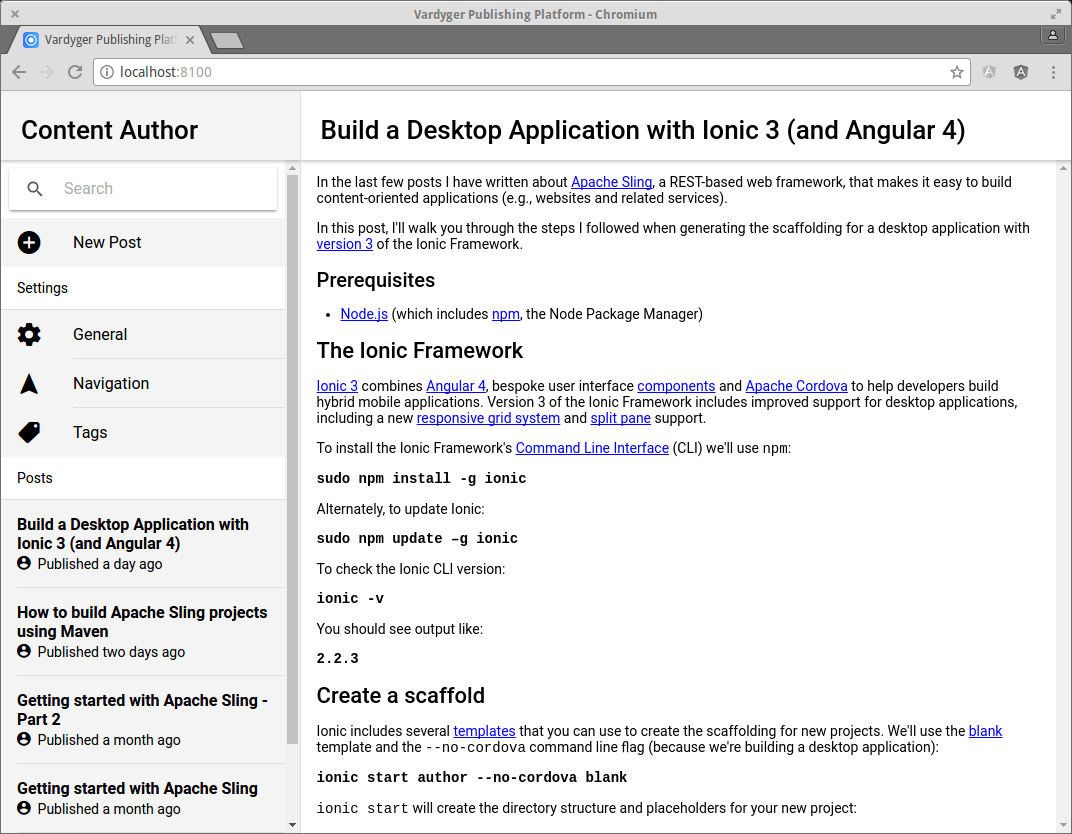
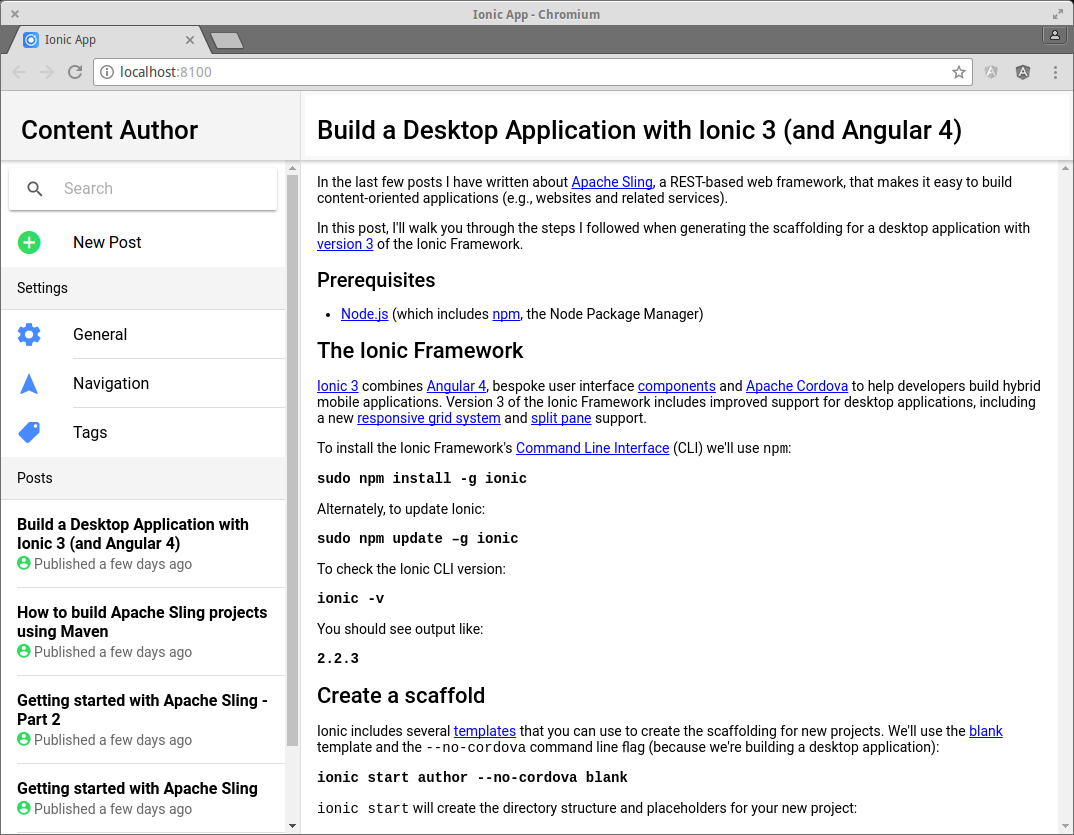
Updated the readme.md file

diff --git a/author/src/app/app.html b/author/src/app/app.html
@@ -44,7 +44,7 @@
            <span>
              <ion-icon name="contact" [ngStyle]="{'color': '#32db64'}"></ion-icon>
            </span>
-              <span color="light" class="padding-top">Published a day ago</span>
+              <span color="light" class="padding-top">Published a few days ago</span>
             </p>
           </div>
         </button>

diff --git a/author/src/pages/preview/preview.scss b/author/src/pages/preview/preview.scss
@@ -1,5 +1,10 @@
 page-preview {
 
+  ion-header > ion-navbar > div.toolbar-content.toolbar-content-md {
+    padding-left: 6px;
+    background-color: #fff;
+  }
+
   h1, h2, h3, h4 {
     padding-left: 16px;
     padding-right: 16px;
@@ -28,3 +33,4 @@ page-preview {
     font-weight: bold;
   }
 }
+

diff --git a/author/src/pages/preview/preview.html b/author/src/pages/preview/preview.html
@@ -1,5 +1,5 @@
 <ion-header>
-  <ion-navbar color="light">
+  <ion-navbar>
     <button ion-button menuToggle>
       <ion-icon name="menu"></ion-icon>
     </button>

diff --git a/readme.md b/readme.md
@@ -37,6 +37,9 @@ You should see something like:
 
 ![Author UI screenshot](https://github.com/Robinyo/vardyger-2/blob/master/author.png)
 
+Choose "New Post" and you should see something like:
+![Author UI screenshot](https://github.com/Robinyo/vardyger-2/blob/master/new-post.png)
+
 ### Maven Archetypes
 
 Three Maven archetypes where used to kickstart this project (this is purely informational, you do not need to run the following commands).
